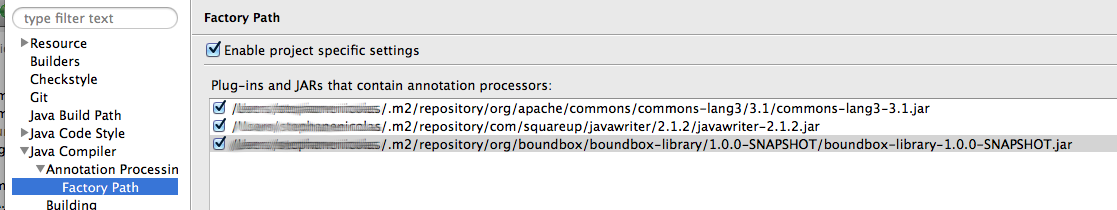
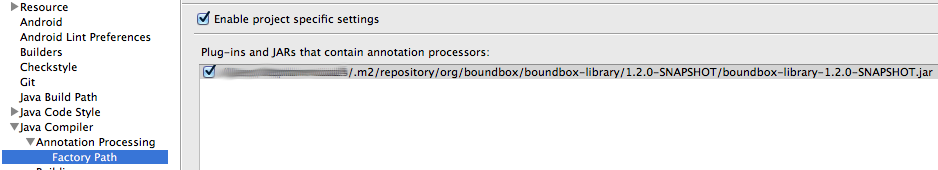
Update wiki for uber jar and prepare changelog for release of 1.2.0

Changed region(s): [[0.0, 0.0, 1.0, 1.0], [0.1855, 0.0, 1.0, 0.0294]]

diff --git a/CHANGELOG.md b/CHANGELOG.md
@@ -1,5 +1,10 @@
-## Release 1.2.0 (Planned October 27th 2013)
-* TODO Create ubber jar for easier deployment in IDE's. https://github.com/stephanenicolas/boundbox/issues/17
+## Release 1.2.1 (Planned November 10th 2013)
+
+
+## Release 1.2.0 (October 19th 2013)
+* Create ubber jar for easier deployment in IDE's. https://github.com/stephanenicolas/boundbox/issues/17
+* Add gradle support for samples on Android https://github.com/stephanenicolas/boundbox/issues/20
+* Use feature flipping for logging http://stackoverflow.com/q/19456107/693752
 
 ## Release 1.1.1 (October 15th 2013)
 * Replace all unvisible types by Object. https://github.com/stephanenicolas/boundbox/issues/15
